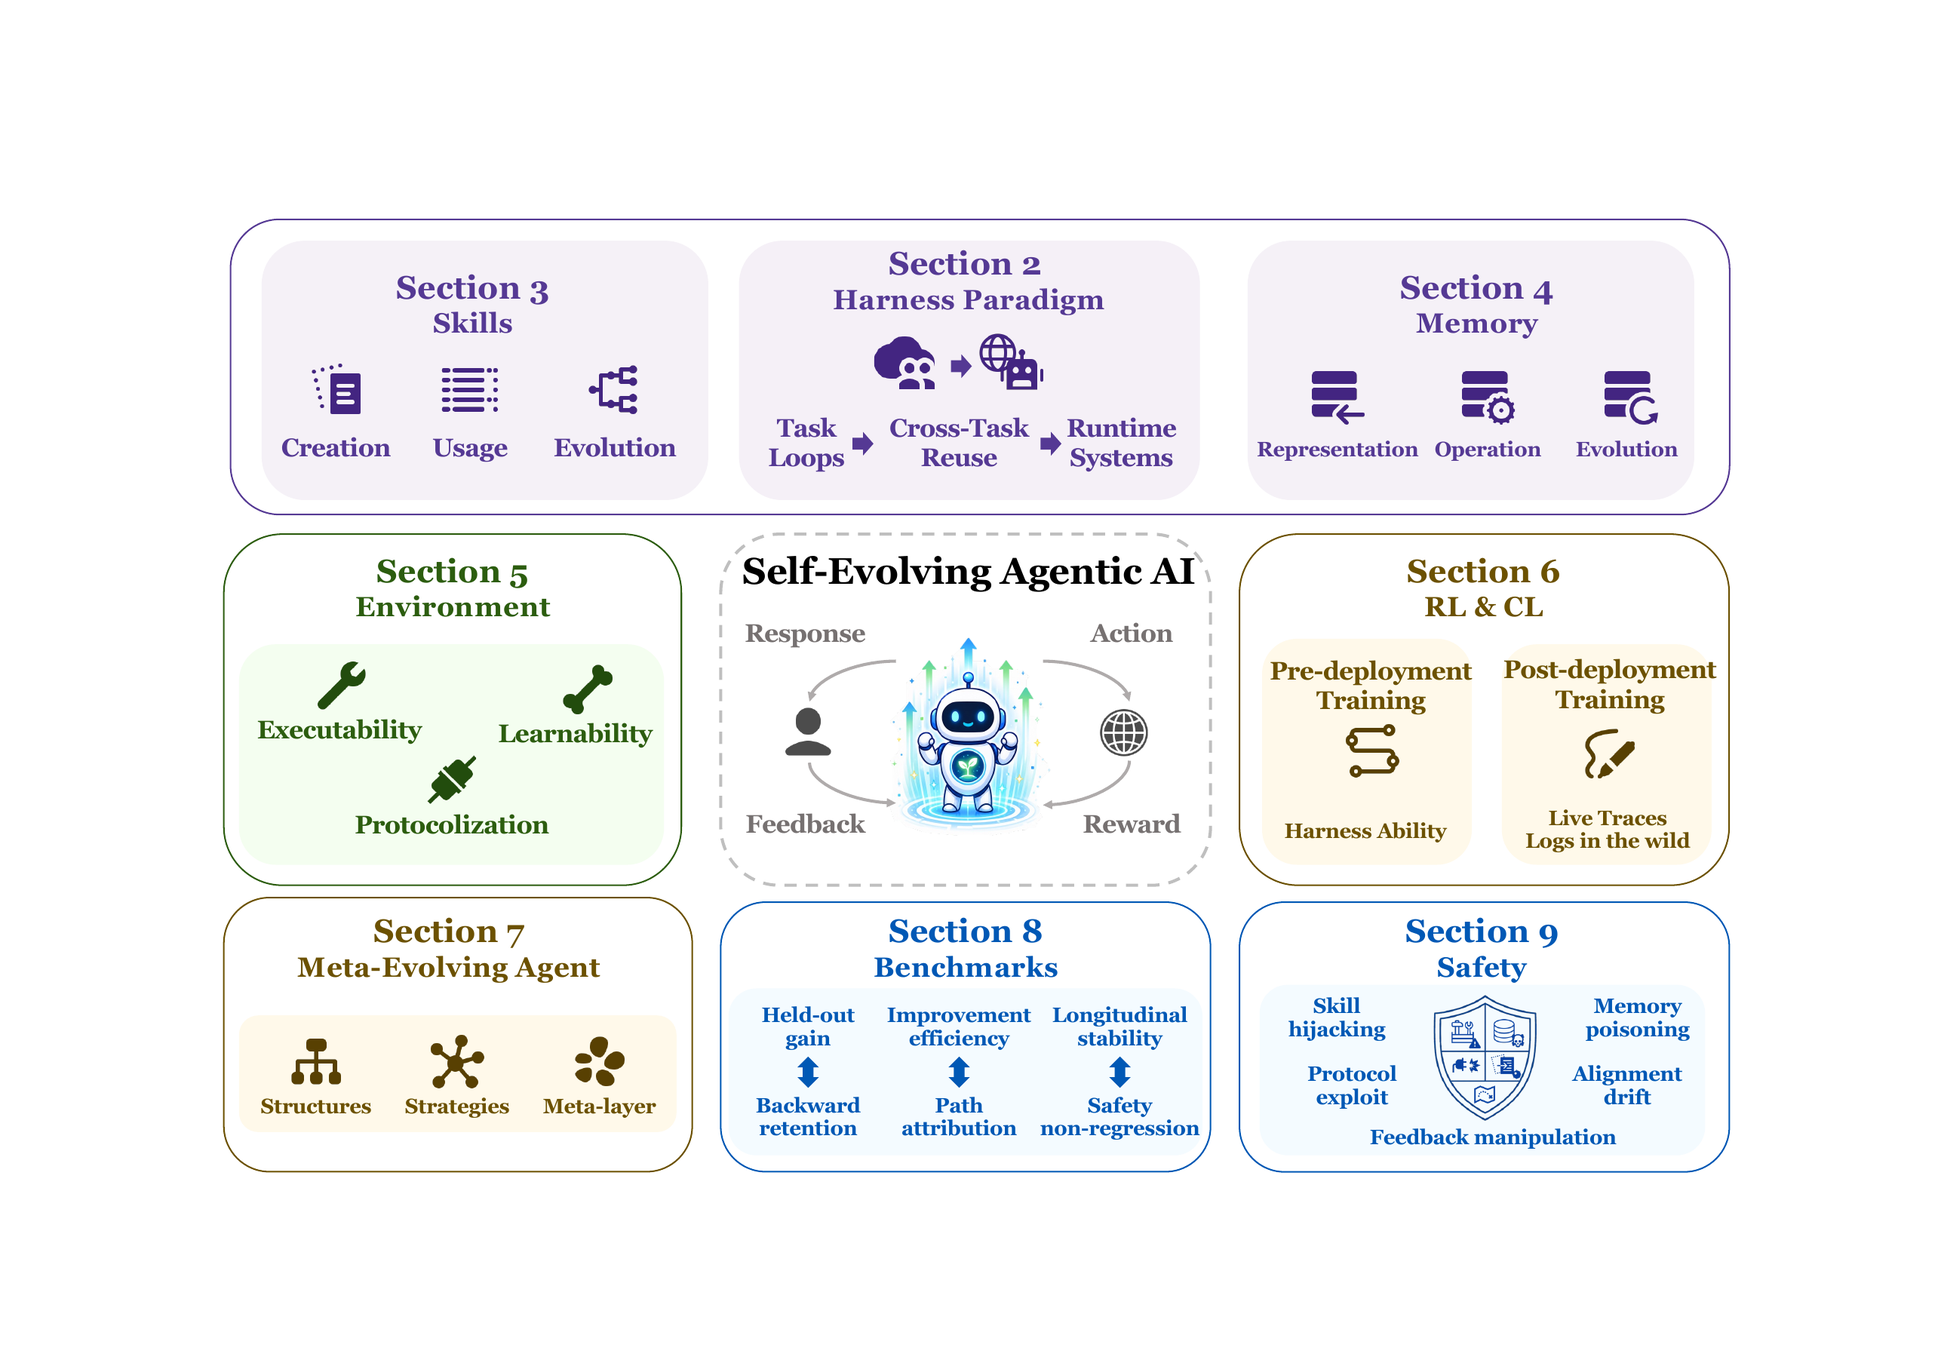
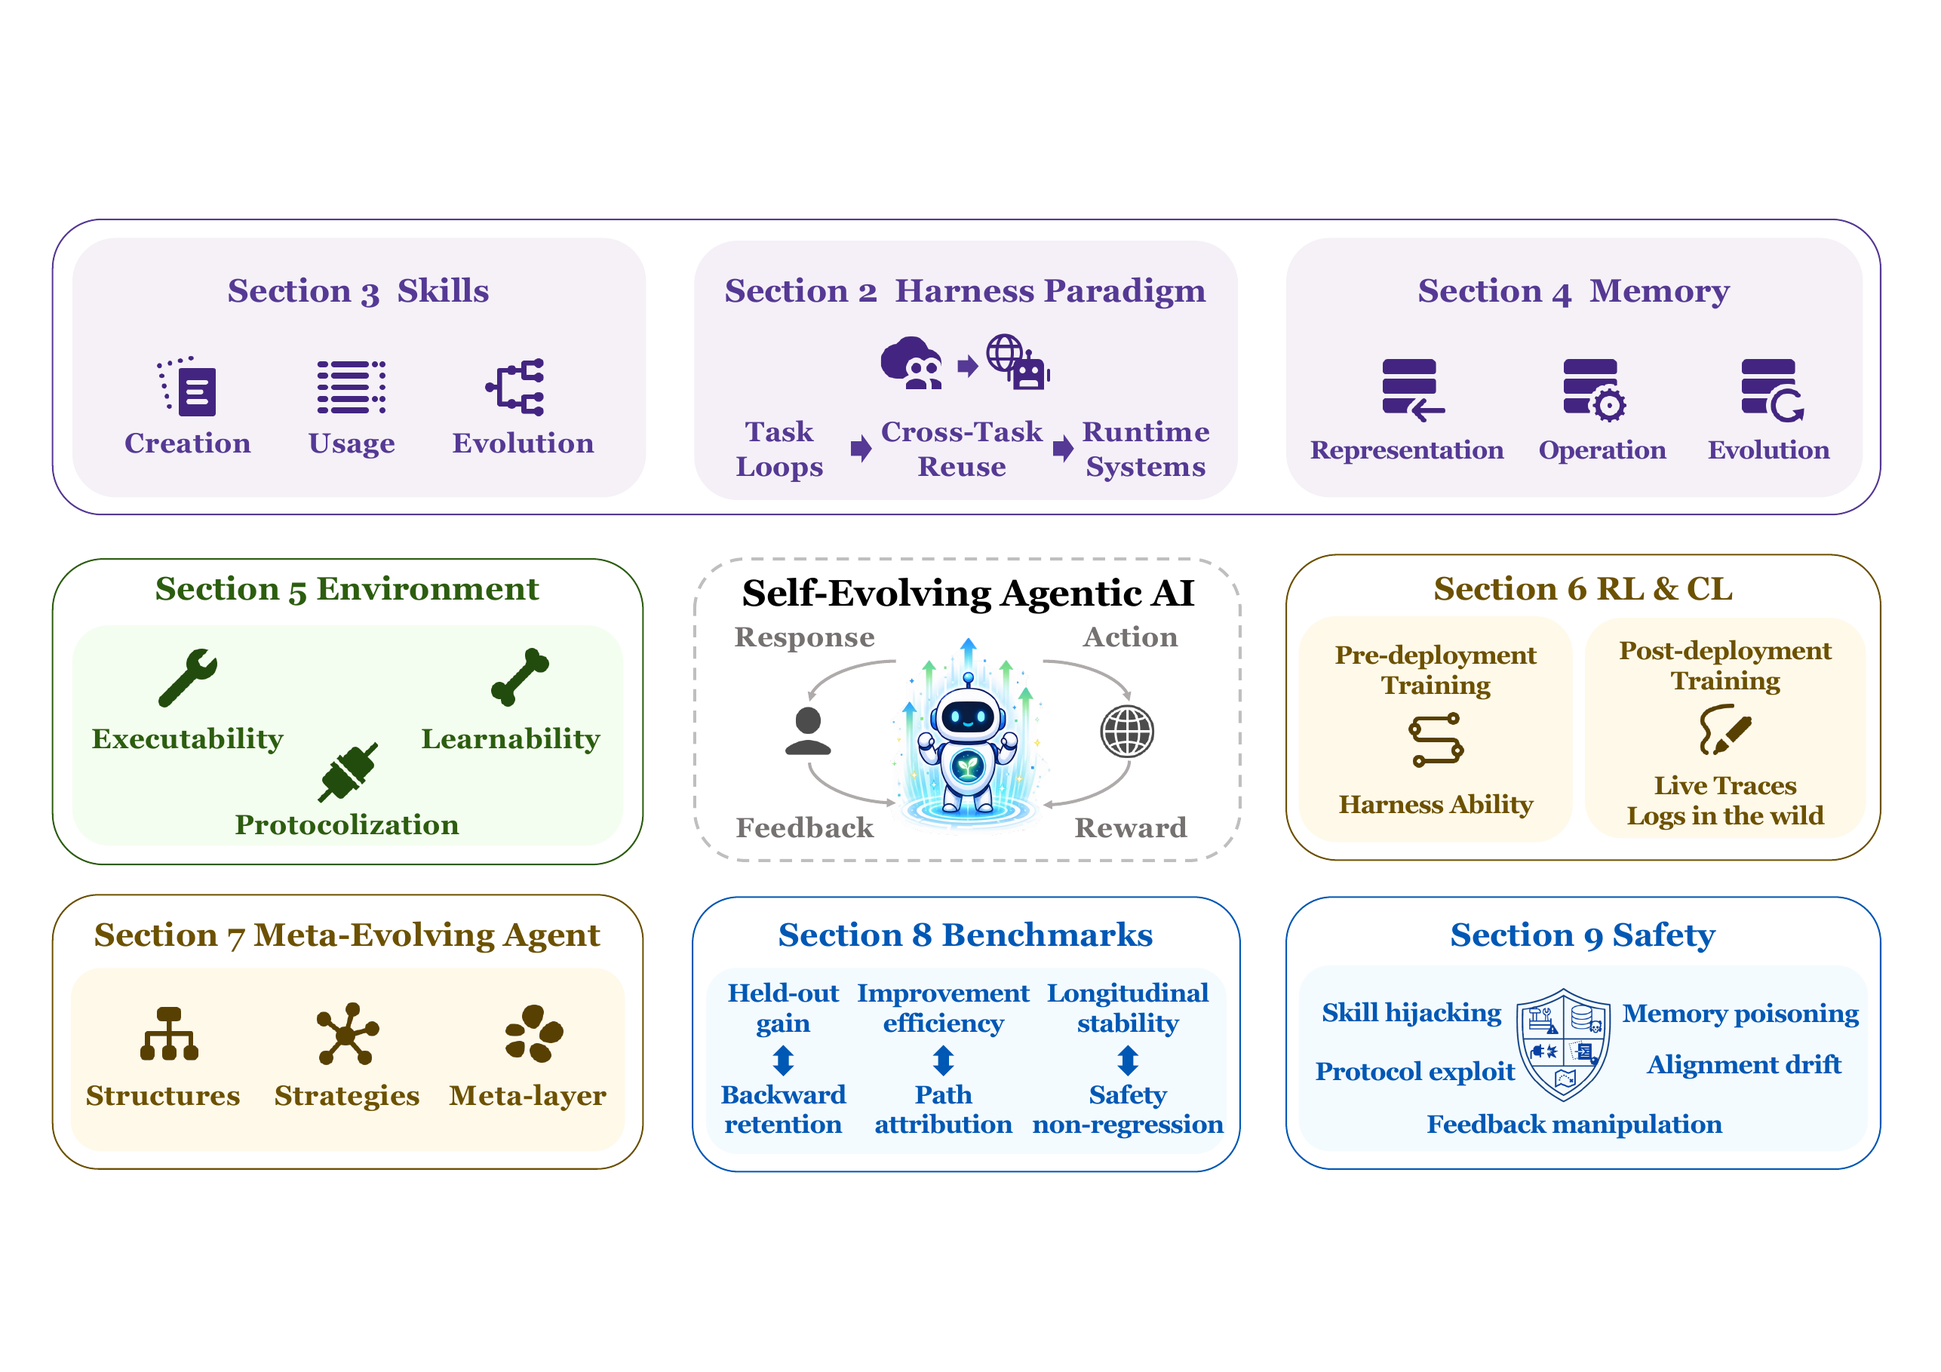
Rework claim narrative sections

diff --git a/index.html b/index.html
@@ -51,65 +51,157 @@
       </dl>
     </section>
 
-    <section class="content-section figures-section" aria-labelledby="overview-title">
+    <section class="content-section claim-section" aria-labelledby="claim-title">
       <div class="section-heading">
-        <h2 id="overview-title">Overview of the survey.</h2>
+        <p class="eyebrow">Overview of the survey</p>
+        <h2 id="claim-title">Turning deployment experience into durable capability.</h2>
+        <p>
+          The survey's central claim is that making agents smarter after deployment is a trace-to-capability problem. A deployed system must capture interaction traces, compile them into usable experience, assign that experience to the right update surface, verify its value, and preserve control as the system changes.
+        </p>
       </div>
-      <figure class="single-figure">
-        <img src="assets/chapters-figure.png" alt="Overview of the survey figure rendered from the LaTeX-referenced chapters PDF.">
-        <figcaption>Overview of the survey. The figure summarizes how the paper moves from the harness-agent definition to external runtime adaptation, parameter-side consolidation, and the evaluation and safety conditions for post-deployment self-improvement.</figcaption>
-      </figure>
+      <div class="claim-layout">
+        <figure class="single-figure">
+          <img src="assets/chapters-figure.png" width="2573" height="1819" alt="Overview of the survey figure rendered from the LaTeX-referenced chapters PDF.">
+          <figcaption>The paper moves from a harness-agent definition to external runtime adaptation, parameter-side consolidation, and the evaluation and safety requirements for turning deployment experience into durable capability.</figcaption>
+        </figure>
+        <div class="claim-points" aria-label="Survey claims">
+          <article>
+            <span>01</span>
+            <h3>Harness-agent definition</h3>
+            <p>The runtime object is the model together with a mutable harness, a user-facing side, and an environment-facing side.</p>
+          </article>
+          <article>
+            <span>02</span>
+            <h3>External runtime adaptation</h3>
+            <p>Skills, memory, environments, tools, and other harness surfaces can change quickly, visibly, and reversibly during deployment.</p>
+          </article>
+          <article>
+            <span>03</span>
+            <h3>Parameter-side consolidation</h3>
+            <p>Stable deployment experience can later be promoted into model behavior, but only after the evidence is strong enough to justify a harder-to-reverse update.</p>
+          </article>
+          <article>
+            <span>04</span>
+            <h3>Evaluation and safety conditions</h3>
+            <p>A self-improving agent must be measured as a changing system, with retention, cost, attribution, and control tracked over time.</p>
+          </article>
+        </div>
+      </div>
     </section>
 
     <section class="content-section definition-section" id="definition" aria-labelledby="definition-title">
       <div class="section-heading">
-        <h2 id="definition-title">Harness as Experience Infrastructure</h2>
+        <p class="eyebrow">Harness as Experience Infrastructure</p>
+        <h2 id="definition-title">Runtime Adaptation Requires Experience Infrastructure</h2>
+        <p>
+          The first step is to name the object that can improve after deployment. The paper defines a deployed agentic AI system as a base model wrapped by a mutable harness, with user-facing and environment-facing sides that supply goals, actions, observations, tests, corrections, and operational state.
+        </p>
       </div>
-
-      <div class="runtime-layout">
+      <div class="figure-story">
         <figure class="runtime-figure">
-          <img src="assets/harness-figure.png" alt="Harness as experience infrastructure figure rendered from the LaTeX-referenced harness PDF.">
-          <figcaption>Harness as experience infrastructure for deployed agents. The user side \(U_t\) supplies goals, instructions, preferences, approvals, and corrections, while the environment side \(E_t\) supplies executable state, observations, tests, and verifiable feedback. The harness \(H_t\) mediates context, action routing, permissions, and trace compilation, turning interaction traces into usable experience that can update skills, memory, other external components, or model parameters.</figcaption>
+          <img src="assets/harness-figure.png" width="2573" height="1819" alt="Harness as experience infrastructure figure rendered from the LaTeX-referenced harness PDF.">
+          <figcaption>The harness mediates user goals and environment feedback, then compiles interaction traces into update material for skills, memory, other harness components, or model parameters.</figcaption>
         </figure>
-        <div class="runtime-notes" aria-label="Harness as Experience Infrastructure subsections">
-          <article><span>01</span><h3>Runtime Adaptation Requires Experience Infrastructure</h3></article>
-          <article><span>02</span><h3>How Did We Get Here? From Task Loops to Runtime Systems</h3></article>
-          <article><span>03</span><h3>From Experience Destinations to Improvement Paths</h3></article>
-          <article><span>04</span><h3>Related Surveys</h3></article>
+        <div class="story-copy">
+          <h3>The runtime object</h3>
+          <p>
+            Once the harness is explicit, improvement is no longer a loose collection of tricks. The core questions become precise: which component changed, what trace window produced the evidence, what update surface received it, and how the system knows the update helped.
+          </p>
+          <ul class="story-points">
+            <li>Context and memory decide what past experience can influence the next action.</li>
+            <li>Tools and permissions define what actions the agent can safely attempt.</li>
+            <li>Traces, tests, and feedback decide whether experience can become an update.</li>
+          </ul>
         </div>
       </div>
     </section>
 
     <section class="content-section timeline-section" id="timeline" aria-labelledby="timeline-title">
       <div class="section-heading">
+        <p class="eyebrow">Harness as Experience Infrastructure</p>
         <h2 id="timeline-title">How Did We Get Here? From Task Loops to Runtime Systems</h2>
+        <p>
+          The historical shift is not simply that agents call more tools. The object of study moves from episodic tool-use loops, to cross-task reuse, to persistent harness-centered runtimes whose memory, workflows, skills, and feedback channels can themselves evolve after deployment.
+        </p>
       </div>
       <figure class="timeline-figure">
-        <img src="assets/timeline-figure.png" alt="Historical progression figure rendered from the LaTeX-referenced timeline PDF.">
-        <figcaption>Historical progression from task-bounded loops to deployed runtime systems. From Gen 1 to Gen 3, the main object shifts from episodic tool use, to cross-task memory and workflow structuring, to persistent harness-centered runtimes whose adaptation surfaces can evolve after deployment.</figcaption>
+        <img src="assets/timeline-figure.png" width="2573" height="1819" alt="Historical progression figure rendered from the LaTeX-referenced timeline PDF.">
+        <figcaption>From Gen 1 to Gen 3, the main object shifts from episodic tool-use loops, to cross-task reuse, to persistent harness-centered runtimes whose adaptation surfaces can evolve after deployment.</figcaption>
       </figure>
     </section>
 
-    <section class="content-section taxonomy-section" id="taxonomy" aria-labelledby="taxonomy-title">
+    <section class="content-section external-section" aria-labelledby="external-title">
       <div class="section-heading">
-        <h2 id="taxonomy-title">From Experience Destinations to Improvement Paths</h2>
+        <p class="eyebrow">Experience-Centric Scope and Survey Organization</p>
+        <h2 id="external-title">External runtime adaptation</h2>
+        <p>
+          The paper first follows deployment experience into editable runtime surfaces. This path is fast, inspectable, and reversible: experience can become reusable procedure, persistent state, and richer executable worlds before any parameter update is justified.
+        </p>
       </div>
-      <div class="manuscript-structure" id="manuscript-structure" aria-label="LaTeX manuscript structure"></div>
+      <div class="figure-grid figure-grid-three">
+        <figure>
+          <img src="assets/skill-figure.png" width="2573" height="1819" alt="External skill lifecycle figure rendered from the LaTeX-referenced skill PDF.">
+          <figcaption><strong>Skills: Experience Becomes Reusable Procedure.</strong> Skill creation adds procedures to the bank, skill use retrieves and executes them, and skill evolution converts deployment evidence into library updates.</figcaption>
+        </figure>
+        <figure>
+          <img src="assets/memory-figure.png" width="2573" height="1819" alt="Context-mediated memory figure rendered from the LaTeX-referenced memory PDF.">
+          <figcaption><strong>Memory: Experience Becomes Persistent State.</strong> Memory representations, operations, and evolution decide what is stored, revised, retrieved, and reintroduced into active context.</figcaption>
+        </figure>
+        <figure>
+          <img src="assets/environment-figure.png" width="2755" height="2126" alt="Environment as runtime adaptation ceiling figure rendered from the LaTeX-referenced environment PDF.">
+          <figcaption><strong>Environment: The Boundary of What Agents Can Experience.</strong> Runtime adaptation is bounded by the action diversity, feedback density, task horizon, and verification signals exposed by the environment.</figcaption>
+        </figure>
+      </div>
     </section>
 
-    <section class="content-section figures-section" aria-labelledby="figures-title">
+    <section class="content-section consolidation-section" aria-labelledby="consolidation-title">
       <div class="section-heading">
-        <h2 id="figures-title">Parameter-side learning for stronger agents after deployment.</h2>
+        <p class="eyebrow">RL and Continual Learning: Consolidating Experience into Model Parameters</p>
+        <h2 id="consolidation-title">Why Parameter-side Consolidation Matters</h2>
+        <p>
+          The parameter path is not a replacement for the harness path. It is a slower consolidation step: repeated runtime lessons are promoted into model behavior only when they are stable, general, and valuable enough to justify a harder-to-reverse update.
+        </p>
       </div>
-      <div class="figure-strip">
-        <figure>
-          <img src="assets/parameter-path-figure.png" alt="Parameter-side learning figure rendered from the LaTeX-referenced rl PDF.">
-          <figcaption>Parameter-side learning for stronger agents after deployment. Stable runtime priors first accumulate in harness-side artifacts and interaction traces; the parameter path consolidates selected lessons into model updates that reduce repeated context orchestration, transfer beyond context replay, and enable collective evolution. The lower panels organize current evidence into three regimes: vertical capability learning, where executable gyms, verifiers, SFT/RL, and integration recipes build agentic abilities before release; training harness functional units, where policies learn to call and coordinate sub-agents, skills, memory, tools, and experience stores; and post-deployment trace learning, where signals come from traces generated by the running model--harness--environment stack and must pass through trace selection, signal extraction, and same-harness training infrastructure.</figcaption>
+      <div class="figure-story figure-story-reverse">
+        <figure class="runtime-figure">
+          <img src="assets/parameter-path-figure.png" width="2573" height="1819" alt="Parameter-side learning figure rendered from the LaTeX-referenced rl PDF.">
+          <figcaption>Stable runtime priors first accumulate in harness-side artifacts and traces; parameter-side learning consolidates selected lessons into model updates that can transfer beyond context replay.</figcaption>
         </figure>
-        <figure>
-          <img src="assets/evaluation-figure.png" alt="SIP-Bench protocol figure rendered from the LaTeX-referenced sip PDF.">
-          <figcaption>SIP-Bench protocol. The key idea is to evaluate one evolving agent across T0/T1/T2 checkpoints rather than only report a final score after adaptation.</figcaption>
+        <div class="story-copy">
+          <h3>Takeaways for Practitioners</h3>
+          <ul class="story-points">
+            <li>Pre-Deployment Training for Vertical Agent Capabilities builds stronger agents before release.</li>
+            <li>Pre-Deployment Training for Harness Functional Units teaches models to use tools, memory, skills, and sub-agents better.</li>
+            <li>Post-Deployment Training from Agent Traces learns from the running model-harness-environment stack.</li>
+          </ul>
+        </div>
+      </div>
+    </section>
+
+    <section class="content-section measurement-section" aria-labelledby="measurement-title">
+      <div class="section-heading">
+        <p class="eyebrow">Measuring Self-Improvement: What Current Benchmarks Still Miss</p>
+        <h2 id="measurement-title">SIP-Bench as a Protocol Layer</h2>
+        <p>
+          A higher final score after adaptation is weak evidence. The real question is whether the same evolving agent gains capability, retains prior competence, spends reasonable cost, attributes improvement to the right update, and remains safe as it changes.
+        </p>
+      </div>
+      <div class="figure-story">
+        <figure class="runtime-figure">
+          <img src="assets/evaluation-figure.png" width="2573" height="1819" alt="SIP-Bench protocol figure rendered from the LaTeX-referenced sip PDF.">
+          <figcaption>SIP-Bench evaluates one evolving agent across T0/T1/T2 checkpoints rather than reporting only a final score after adaptation.</figcaption>
         </figure>
+        <div class="story-copy">
+          <h3>What Self-Improvement Evaluation Must Measure</h3>
+          <p>
+            The field needs protocols that measure improvement over time, not just task completion at one point. Without longitudinal evaluation, we cannot tell durable learning from one-off elicitation, overfitting, drift, or unsafe mutation.
+          </p>
+          <ul class="story-points">
+            <li>Why Self-improvement Itself Must Be Evaluated: report gains together with retention and cost.</li>
+            <li>From Continual-Learning Metrics to SI Targets: track transfer, forgetting, and the source of improvement.</li>
+            <li>A New Evidence and Reliability Layer: keep update evidence auditable across checkpoints.</li>
+          </ul>
+        </div>
       </div>
     </section>
 

diff --git a/styles.css b/styles.css
@@ -41,6 +41,7 @@ body {
 img {
   display: block;
   max-width: 100%;
+  height: auto;
 }
 
 a {
@@ -601,6 +602,123 @@ h1 {
   font-weight: 700;
 }
 
+.claim-section,
+.consolidation-section {
+  background: var(--surface);
+}
+
+.external-section,
+.measurement-section {
+  background: var(--paper-warm);
+}
+
+.claim-layout,
+.figure-story {
+  display: grid;
+  grid-template-columns: minmax(0, 1.18fr) minmax(280px, 0.82fr);
+  gap: 20px;
+  max-width: var(--container);
+  margin: 0 auto;
+  align-items: stretch;
+}
+
+.claim-points {
+  display: grid;
+  gap: 12px;
+  min-width: 0;
+}
+
+.claim-points article,
+.story-copy {
+  border: 1px solid var(--line);
+  border-radius: var(--radius);
+  background: var(--surface-strong);
+}
+
+.claim-points article {
+  padding: 18px;
+}
+
+.claim-points span {
+  display: inline-flex;
+  margin-bottom: 10px;
+  color: var(--amber);
+  font-size: 12px;
+  font-weight: 900;
+  letter-spacing: 0.08em;
+}
+
+.claim-points h3,
+.story-copy h3 {
+  margin-bottom: 8px;
+  font-size: 20px;
+  line-height: 1.18;
+}
+
+.claim-points p,
+.story-copy p {
+  margin-bottom: 0;
+  color: var(--muted);
+}
+
+.story-copy {
+  display: flex;
+  flex-direction: column;
+  justify-content: center;
+  padding: clamp(18px, 3vw, 28px);
+}
+
+.story-points {
+  display: grid;
+  gap: 10px;
+  margin: 18px 0 0;
+  padding-left: 18px;
+  color: var(--muted);
+}
+
+.story-points li::marker {
+  color: var(--teal);
+}
+
+.figure-grid {
+  display: grid;
+  gap: 18px;
+  max-width: var(--container);
+  margin: 0 auto;
+}
+
+.figure-grid-three {
+  grid-template-columns: repeat(3, minmax(0, 1fr));
+}
+
+.figure-grid figure {
+  display: flex;
+  min-width: 0;
+  flex-direction: column;
+  margin: 0;
+  border: 1px solid var(--line);
+  border-radius: var(--radius);
+  background: var(--surface-strong);
+  overflow: hidden;
+}
+
+.figure-grid img {
+  width: 100%;
+  height: clamp(240px, 24vw, 330px);
+  object-fit: contain;
+  padding: 16px;
+  background: #fff;
+}
+
+.figure-grid figcaption {
+  flex: 1;
+  padding: 14px 16px 16px;
+  border-top: 1px solid var(--line);
+  color: var(--muted);
+  font-size: 14px;
+  font-weight: 700;
+}
+
 .manuscript-structure {
   display: grid;
   grid-template-columns: repeat(2, minmax(0, 1fr));
@@ -954,6 +1072,9 @@ h1 {
   .runtime-layout,
   .status-grid,
   .figure-strip,
+  .claim-layout,
+  .figure-story,
+  .figure-grid-three,
   .manuscript-structure {
     grid-template-columns: 1fr;
   }
@@ -968,7 +1089,7 @@ h1 {
   }
 }
 
-@media (max-width: 820px) {
+@media (max-width: 980px) {
   .site-header {
     align-items: center;
     gap: 18px;
@@ -1134,6 +1255,10 @@ h1 {
   .timeline-figure,
   .surface-grid,
   .figure-strip,
+  .claim-layout,
+  .claim-points,
+  .figure-story,
+  .figure-grid,
   .single-figure,
   .manuscript-structure,
   .paper-controls,
@@ -1153,6 +1278,11 @@ h1 {
 
   .runtime-node {
     min-height: 102px;
+  }
+
+  .figure-grid img,
+  .figure-strip img {
+    height: auto;
   }
 
   .paper-controls {
